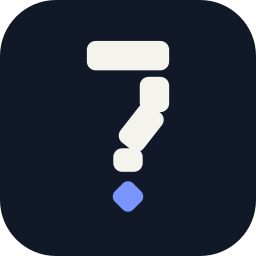
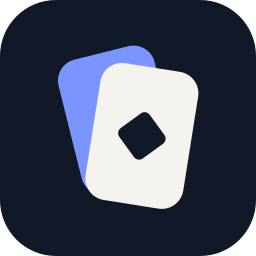
feat(brand): new mark — two fanned cards with a turned-square pip cut from the front card; question-mark mark retired

Changed region(s): [[0.2188, 0.1562, 0.7812, 0.8438]]

diff --git a/brand/README.md b/brand/README.md
@@ -1,48 +1,44 @@
 # Who's Bluffing? brand kit
 
-The mark is a question mark cut into five pieces. Four pieces draw the hook and stem; the fifth is a square turned 45°
-in the accent colour. It is the one that does not sit straight: the one who is bluffing. The five pieces are the game's
-five result tiles, recut.
+The mark is a hand of two cards, fanned, with a square turned 45° cut out of the front card: the diamond pip. Each
+card is two of the game's five result squares fused; the pip is the fifth, the only one that is turned. Bluffing is a
+card-table word, and the pip is the one piece that does not sit straight.
 
 ## Files
 
 | File | Use |
 |---|---|
-| `icon.svg` | App icon: dark tile `#111827`, corner radius 14/64, pieces `#F5F3EE`, dot `#7A95FF`. Favicon, Discord and Slack app icon, GitHub avatar, social preview. |
-| `icon-light.svg` | Same on the paper tile `#FBFAF7` (pieces `#111827`, dot `#2F5BFF`). |
+| `icon.svg` | App icon: dark tile `#111827`, corner radius 14/64, back card `#7A95FF`, front card `#F5F3EE`, pip cut to the tile colour. Favicon, Discord and Slack app icon, GitHub avatar, social preview. |
+| `icon-light.svg` | Same on the paper tile `#FBFAF7` (back `#2F5BFF`, front `#111827`). |
 | `icon-square.svg` | Square corners, for platforms that apply their own mask (iOS, some bot lists). |
-| `mark.svg` | Bare mark for light backgrounds (ink + accent). |
-| `mark-white.svg` | Bare mark for dark backgrounds. |
-| `mark-mono.svg` | One colour (`currentColor`). |
-| `mark-inline.svg` | The snippet the site uses: fills come from `var(--text)` and `var(--accent)`; rotations sit on `<g>` wrappers so CSS can animate the inner rects. |
+| `mark.svg` | Bare mark for light backgrounds (front ink, back accent, pip paper). |
+| `mark-white.svg` | Bare mark for dark backgrounds (front `#F5F3EE`, back `#7A95FF`, pip navy). |
+| `mark-mono.svg` | One colour (`currentColor`), pip white. |
+| `mark-inline.svg` | The snippet the site uses: classes `back`, `front`, `pip` take `var(--accent)`, `var(--text)` and `var(--bg)`; rotations sit on `<g>` wrappers so CSS can animate the inner rects. |
 | `png/icon-{16…1024}.png` | Raster exports of `icon.svg`. Discord wants 512 or larger; Slack 512–2000; GitHub 500 or larger. |
 | `png/icon-square-1024.png`, `png/icon-light-1024.png`, `png/mark-1024.png`, `png/mark-white-1024.png` | Raster exports of the other masters. |
-| `preview.png` | Contact sheet with the runners-up. |
+| `preview.png` | Icon at several sizes, the lockups, a home-screen mock. |
 
-## Geometry (viewBox 0 0 28 60)
+## Geometry (viewBox 0 0 38 44)
 
 | Piece | Rect | Rotation |
 |---|---|---|
-| top bar | x 0, y 0, w 28, h 10, rx 3 | — |
-| right bar | x 18, y 12.2, w 10, h 12, rx 3 | — |
-| elbow | x 10.5, y 24.5, w 16, h 10, rx 3 | −52° about (18.5, 29.5) |
-| stem | x 9, y 36.5, w 10, h 8, rx 3 | — |
-| dot | x 9.6, y 48.5, w 8.8, h 8.8, rx 2.5 | 45° about (14, 52.9) |
+| back card | centre (16.5, 20), 25 × 35, rx 5.5 | −14° about its centre |
+| front card | centre (22.5, 24), 25 × 35, rx 5.5 | +9° about its centre |
+| pip | centre (22.5, 24), 9.5 × 9.5, rx 1.6, drawn inside the front card's group | +45° about its centre (so 54° in total) |
 
-In the 64×64 tile the mark is scaled to 68% of the tile height and centred.
+Draw order: back card, front card, pip. In the 64×64 tile the mark is scaled to 68% of the tile height and centred.
 
 ## Lockup
 
-`Who's Bluffing` in the site's 800-weight system font stack, followed by the mark as the name's own question mark (no
-typed "?" after it). Mark height about 1.3× the cap height, dot on the baseline, 6px gap at 20px type. The accessible
-name stays "Who's Bluffing?".
+Bare mark at about 1.2× the cap height, 8px gap, then `Who's Bluffing?` in the site's 800-weight system font stack.
+The typed question mark stays.
 
 ## Rules
 
-- Never show five equal squares in a row as a logo; that was the earlier mark and it is retired.
-- Keep the dot the accent colour and keep it turned. Do not recolour the pieces per result (green/red belongs to the
-  in-game result tiles, not to the mark).
-- Clear space around the tile: at least one piece-width (10/28 of the mark's width) on every side.
-- Minimum sizes: tile 16px, bare mark 14px tall.
+- Never show five equal squares in a row, or the earlier blocky question mark, as a logo; both are retired.
+- Keep the pip cut out (background colour), never filled; keep the fan angles.
+- Clear space around the tile: at least a quarter of the tile on every side.
+- Minimum sizes: tile 16px, bare mark 16px tall.
 - The SVG masters are the source. Edit them directly and re-export the PNGs with any SVG rasteriser; the site renders
   what it needs with `web/design/render.js assets`.
